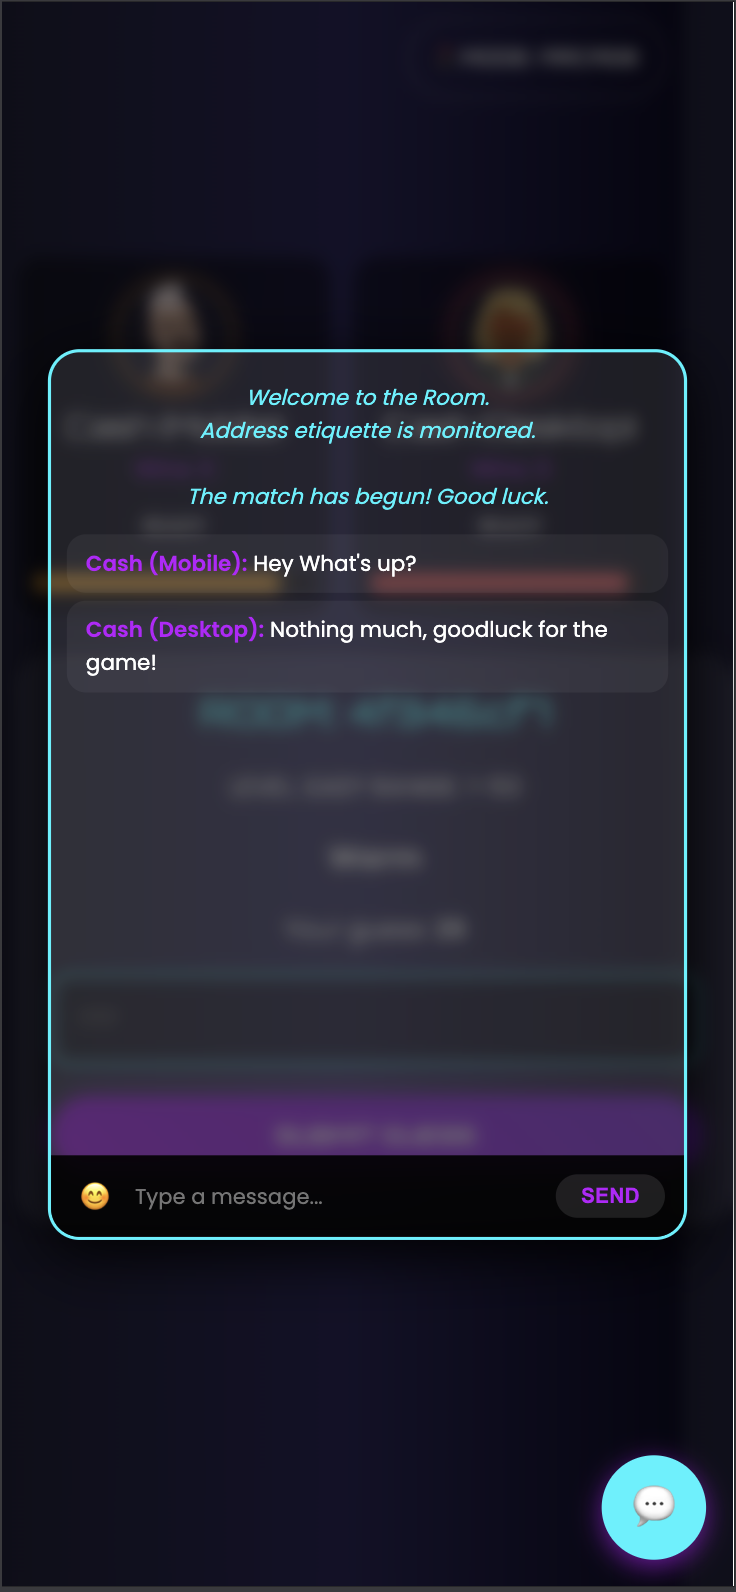
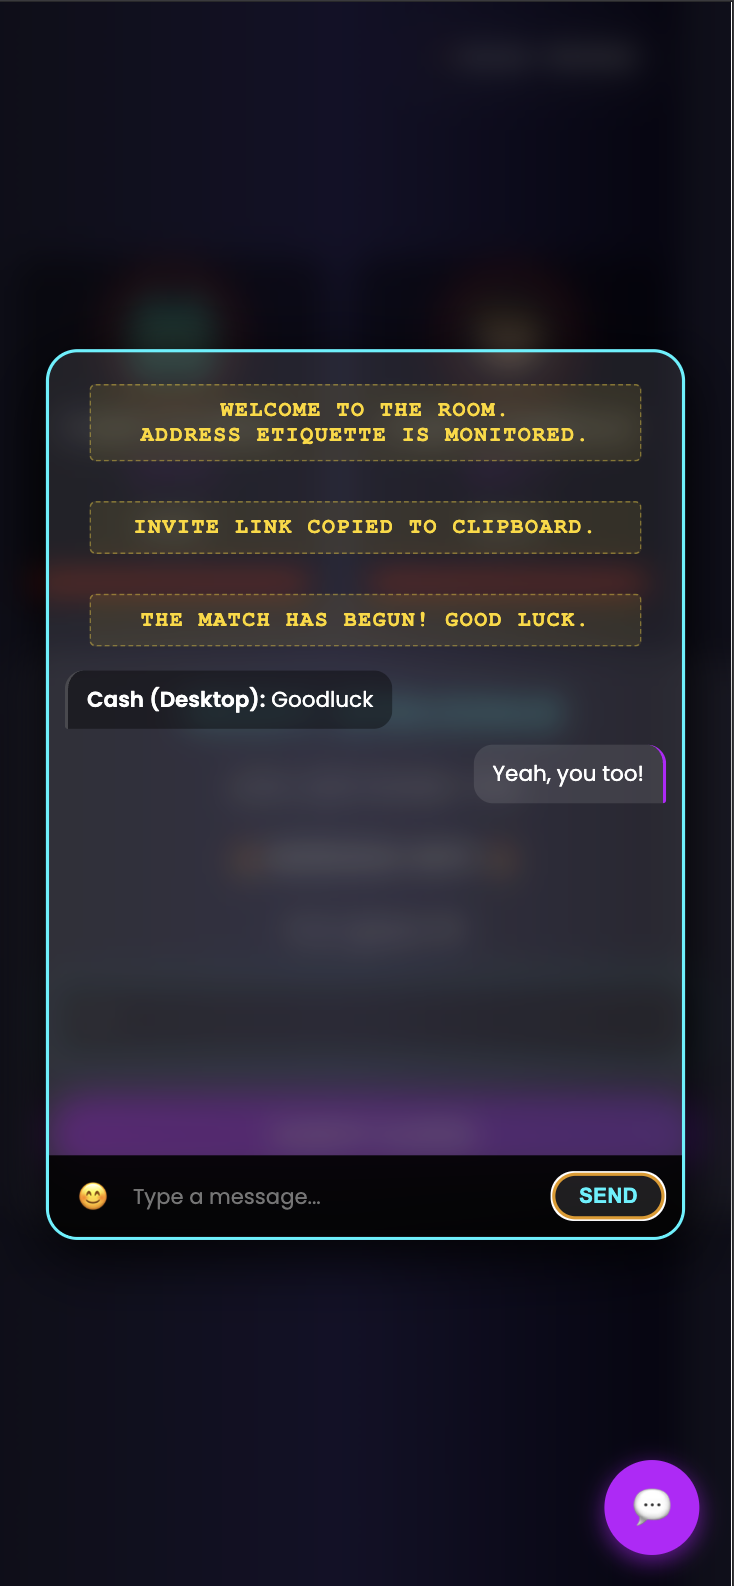
updated chat features, updated Readme

diff --git a/app/templates/multiplayer_room.html b/app/templates/multiplayer_room.html
@@ -244,10 +244,18 @@
       }
 
       .chat-message.system {
-        color: var(--neon-blue);
-        font-style: italic;
-        background: none;
+        background: rgba(255, 215, 0, 0.1);
+        border: 1px dashed rgba(255, 215, 0, 0.4);
+        color: #ffd700;
+        font-family: "Courier New", Courier, monospace;
+        font-weight: bold;
+        font-style: normal;
         text-align: center;
+        width: 90%;
+        margin: 10px auto;
+        border-radius: 4px;
+        text-transform: uppercase;
+        letter-spacing: 1px;
       }
 
       .chat-input-area {
